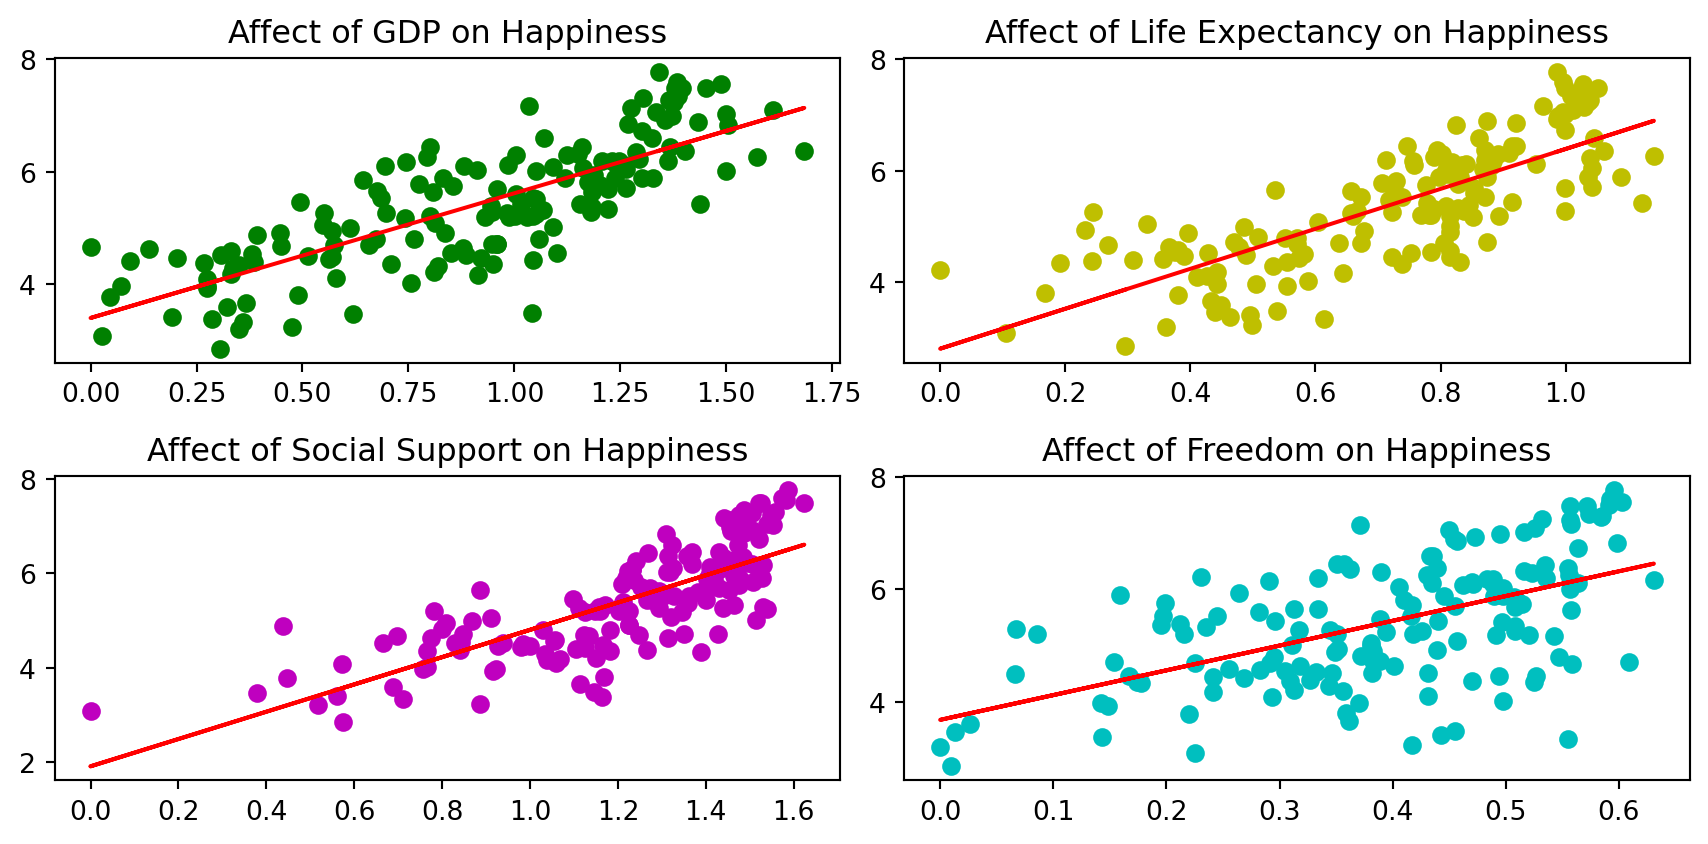
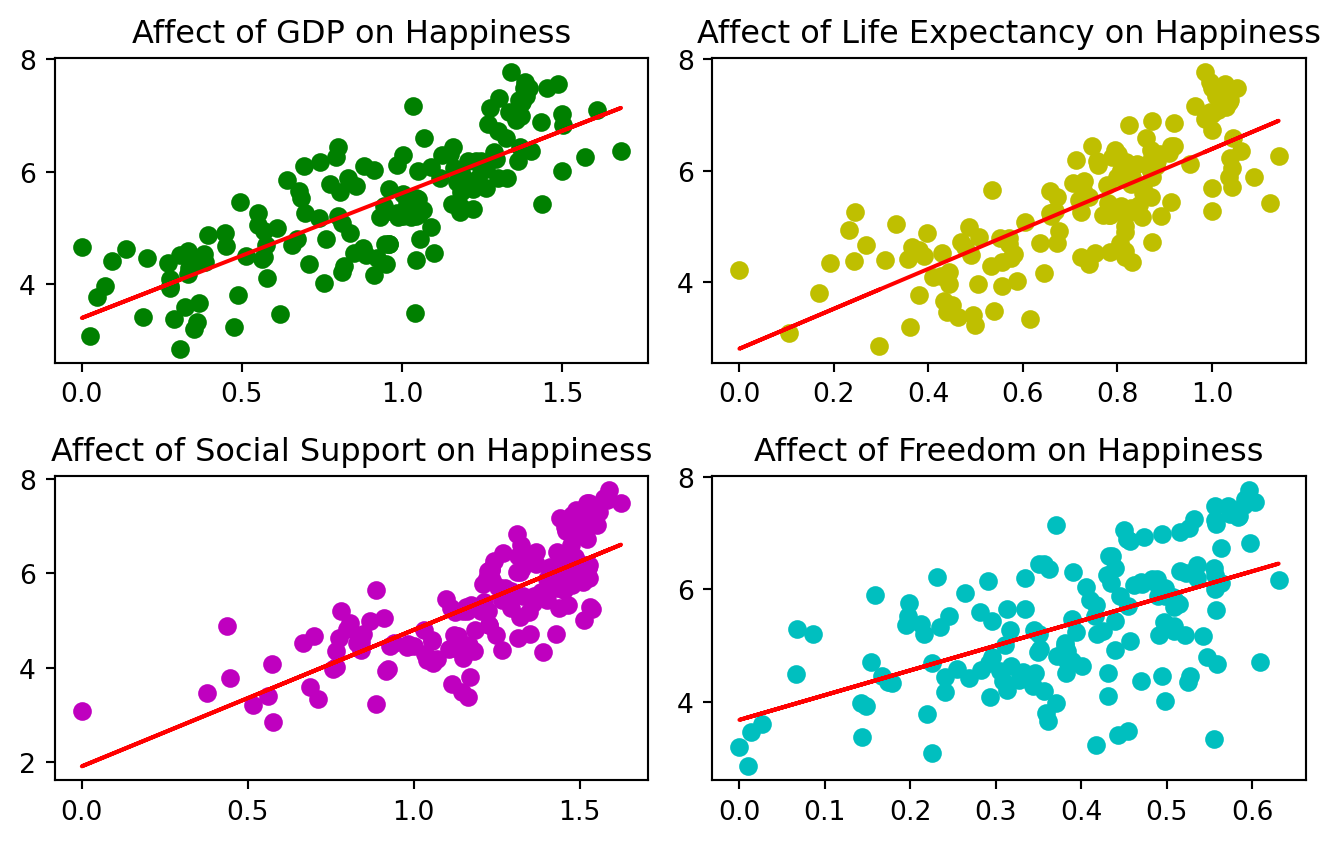
Final edits to Post3

diff --git a/posts/blog 3/post3.html b/posts/blog 3/post3.html
@@ -189,12 +189,21 @@ pre > code.sourceCode > span > a:first-child::before { text-decoration: underlin
   <li><a href="#what-is-linear-regression" id="toc-what-is-linear-regression" class="nav-link" data-scroll-target="#what-is-linear-regression">What is Linear Regression</a></li>
   <li><a href="#when-is-linear-regression-used" id="toc-when-is-linear-regression-used" class="nav-link" data-scroll-target="#when-is-linear-regression-used">When is Linear Regression Used?</a></li>
   <li><a href="#requirements-for-linear-regression" id="toc-requirements-for-linear-regression" class="nav-link" data-scroll-target="#requirements-for-linear-regression">Requirements for Linear Regression</a></li>
+  <li><a href="#pros-and-cons-of-linear-regression" id="toc-pros-and-cons-of-linear-regression" class="nav-link" data-scroll-target="#pros-and-cons-of-linear-regression">Pros and Cons of Linear Regression</a>
+  <ul class="collapse">
+  <li><a href="#pros" id="toc-pros" class="nav-link" data-scroll-target="#pros">Pros</a></li>
+  </ul></li>
   <li><a href="#simple-linear-regression" id="toc-simple-linear-regression" class="nav-link" data-scroll-target="#simple-linear-regression">Simple Linear Regression</a></li>
   </ul></li>
   <li><a href="#non-linear-regression" id="toc-non-linear-regression" class="nav-link" data-scroll-target="#non-linear-regression">Non-linear Regression</a>
   <ul class="collapse">
   <li><a href="#what-is-non-linear-regression" id="toc-what-is-non-linear-regression" class="nav-link" data-scroll-target="#what-is-non-linear-regression">What is Non-Linear Regression</a></li>
   <li><a href="#when-is-non-linear-regression-used" id="toc-when-is-non-linear-regression-used" class="nav-link" data-scroll-target="#when-is-non-linear-regression-used">When is Non-Linear Regression Used?</a></li>
+  <li><a href="#requirements-for-non-linear-regression" id="toc-requirements-for-non-linear-regression" class="nav-link" data-scroll-target="#requirements-for-non-linear-regression">Requirements for Non-Linear Regression</a></li>
+  <li><a href="#pros-and-cons-of-non-linear-regression" id="toc-pros-and-cons-of-non-linear-regression" class="nav-link" data-scroll-target="#pros-and-cons-of-non-linear-regression">Pros and Cons of Non-Linear Regression</a>
+  <ul class="collapse">
+  <li><a href="#pros-1" id="toc-pros-1" class="nav-link" data-scroll-target="#pros-1">Pros</a></li>
+  </ul></li>
   </ul></li>
   </ul>
 </nav>
@@ -261,6 +270,21 @@ pre > code.sourceCode > span > a:first-child::before { text-decoration: underlin
 <li>Independent variables should be scaled/standardized to have a normal distribution</li>
 <li>Dependent variable should be a continuous numeric variable</li>
 </ul>
+</section>
+<section id="pros-and-cons-of-linear-regression" class="level2">
+<h2 class="anchored" data-anchor-id="pros-and-cons-of-linear-regression">Pros and Cons of Linear Regression</h2>
+<section id="pros" class="level3">
+<h3 class="anchored" data-anchor-id="pros">Pros</h3>
+<ol type="1">
+<li>Simple to implement, easy to interpret</li>
+<li>Fast to train and predict</li>
+<li>Less prone to overfitting</li>
+<li>Provides directly interpretable coefficients ### Cons</li>
+<li>Pretty useless if the relationship is non-linear</li>
+<li>Bad at learning complex relationships in data</li>
+<li>Assumes linear relationship even when there isn’t one</li>
+</ol>
+</section>
 </section>
 <section id="simple-linear-regression" class="level2">
 <h2 class="anchored" data-anchor-id="simple-linear-regression">Simple Linear Regression</h2>
@@ -339,7 +363,7 @@ pre > code.sourceCode > span > a:first-child::before { text-decoration: underlin
 <p>In this example, I wanted to create subplots so I could show the relationship between all 4 independent variables with <code>score</code> The first subplot is a scatterplot showing the relationship between <code>GDP per capita</code> and <code>Score</code>. The data is first scattered on the grid and then we run a best-fit line through this data. This line shows predictions of the <code>score</code> based on <code>GDP per capita</code>, with the assumption that their relationship is linear. We then create subplots for all of the other relationships and label them with the appropriate titles.</p>
 <p>All of them seem to have a positive relationship, meaning as the independent value <span class="math inline">\(x\)</span> increases, the dependent values <span class="math inline">\(y\)</span> also increases</p>
 <div class="cell" data-execution_count="6">
-<div class="sourceCode cell-code" id="cb6"><pre class="sourceCode python code-with-copy"><code class="sourceCode python"><span id="cb6-1"><a href="#cb6-1" aria-hidden="true" tabindex="-1"></a>fig, axs <span class="op">=</span> plt.subplots(<span class="dv">2</span>, <span class="dv">2</span>, figsize<span class="op">=</span>(<span class="dv">9</span>, <span class="fl">4.5</span>), tight_layout<span class="op">=</span><span class="va">True</span>)</span>
+<div class="sourceCode cell-code" id="cb6"><pre class="sourceCode python code-with-copy"><code class="sourceCode python"><span id="cb6-1"><a href="#cb6-1" aria-hidden="true" tabindex="-1"></a>fig, axs <span class="op">=</span> plt.subplots(<span class="dv">2</span>, <span class="dv">2</span>, figsize<span class="op">=</span>(<span class="dv">7</span>, <span class="fl">4.5</span>), tight_layout<span class="op">=</span><span class="va">True</span>)</span>
 <span id="cb6-2"><a href="#cb6-2" aria-hidden="true" tabindex="-1"></a></span>
 <span id="cb6-3"><a href="#cb6-3" aria-hidden="true" tabindex="-1"></a>axs[<span class="dv">0</span>, <span class="dv">0</span>].scatter(gdp, score, c<span class="op">=</span><span class="st">"g"</span>)</span>
 <span id="cb6-4"><a href="#cb6-4" aria-hidden="true" tabindex="-1"></a>axs[<span class="dv">0</span>, <span class="dv">0</span>].plot(gdp, gdp_predict_score, c<span class="op">=</span><span class="st">"r"</span>)</span>
@@ -359,7 +383,7 @@ pre > code.sourceCode > span > a:first-child::before { text-decoration: underlin
 <span id="cb6-18"><a href="#cb6-18" aria-hidden="true" tabindex="-1"></a></span>
 <span id="cb6-19"><a href="#cb6-19" aria-hidden="true" tabindex="-1"></a>plt.show()</span></code><button title="Copy to Clipboard" class="code-copy-button"><i class="bi"></i></button></pre></div>
 <div class="cell-output cell-output-display">
-<p><img src="post3_files/figure-html/cell-7-output-1.png" width="854" height="422"></p>
+<p><img src="post3_files/figure-html/cell-7-output-1.png" width="670" height="422"></p>
 </div>
 </div>
 </section>
@@ -384,8 +408,31 @@ pre > code.sourceCode > span > a:first-child::before { text-decoration: underlin
 <li>Time series with trends and seasonal patterns</li>
 </ul></li>
 </ul>
+</section>
+<section id="requirements-for-non-linear-regression" class="level2">
+<h2 class="anchored" data-anchor-id="requirements-for-non-linear-regression">Requirements for Non-Linear Regression</h2>
+<ul>
+<li>Ensure the relationship between the independent and dependent variables is non-linear by examining the way the data is scattered</li>
+<li>Figure out which type of non-linear model we want to use. We have a couple of options like polynomial, logarithmic, exponential, and logistic</li>
+<li>There needs to be a sufficient number of data points to fit the model since non-linear regression is more complex.</li>
+<li>Minimize the number outliers in order to reduce disproportionate influence on models</li>
+</ul>
+</section>
+<section id="pros-and-cons-of-non-linear-regression" class="level2">
+<h2 class="anchored" data-anchor-id="pros-and-cons-of-non-linear-regression">Pros and Cons of Non-Linear Regression</h2>
+<section id="pros-1" class="level3">
+<h3 class="anchored" data-anchor-id="pros-1">Pros</h3>
+<ol type="1">
+<li>Captures complex relationships</li>
+<li>Flexible</li>
+<li>Improved accuracy ### Cons</li>
+<li>Complex and difficult to implement</li>
+<li>Risk of overfitting</li>
+<li>Less generalizability</li>
+</ol>
 
 
+</section>
 </section>
 </section>
 

diff --git a/index.html b/index.html
@@ -198,7 +198,7 @@ Aniket Adhikari
 </a>
 </div>
 </div>
-<div class="quarto-post image-right" data-index="1" data-listing-date-sort="1700024400000" data-listing-file-modified-sort="1700618363733" data-listing-date-modified-sort="1700197200000" data-listing-reading-time-sort="6">
+<div class="quarto-post image-right" data-index="1" data-listing-date-sort="1700024400000" data-listing-file-modified-sort="1700623249432" data-listing-date-modified-sort="1700197200000" data-listing-reading-time-sort="7">
 <div class="thumbnail">
 <p><a href="./posts/blog 3/post3.html"> <!-- img(9CEB782EFEE6)[progressive=false, height=]:posts/blog 3/post3.html --> </a></p>
 </div>
